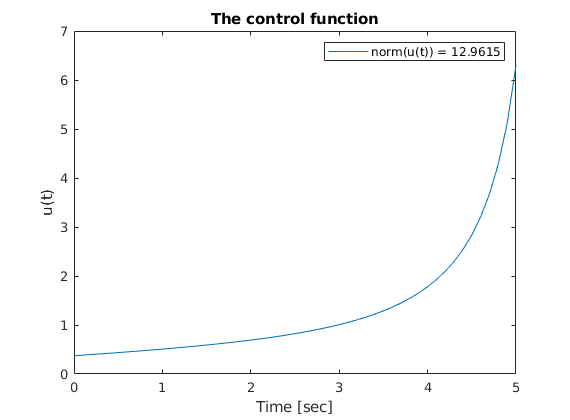
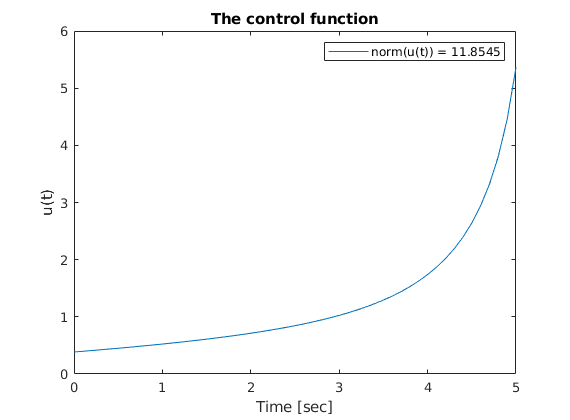
Dognman

diff --git a/src/MDL01_Control/classes/@OptimalControl/OptimalControl.m b/src/MDL01_Control/classes/@OptimalControl/OptimalControl.m
@@ -1,14 +1,22 @@
 classdef OptimalControl < handle & matlab.mixin.SetGet & matlab.mixin.Copyable
-% description: This class is able to solve optimization problems of a function restricted to an ordinary equation.
+% description: "This class is able to solve optimization problems of a function restricted to an ordinary equation.
 %               This scheme is used to solve optimal control problems in which the functional derivative is calculated. 
 %               <strong>OptimalControl</strong> class has methods that help us find optimal control as well as obtaining 
 %               the attached problem and it's derivative form, 
-%               in both Symbolic and numerical versions.
-% long: This class is able to solve optimization problems of a function restricted to an ordinary equation.
+%               in both Symbolic and numerical versions."
+% long: "This class is able to solve optimization problems of a function restricted to an ordinary equation.
 %               This scheme is used to solve optimal control problems in which the functional derivative is calculated. 
 %               <strong>OptimalControl</strong> class has methods that help us find optimal control as well as obtaining 
 %               the attached problem and it's derivative form, 
-%               in both Symbolic and numerical versions.
+%               in both Symbolic and numerical versions. Este problema se
+%               aborda con el metodo del gradiente. Dado que la informacion
+%               del problema esta en simbolico, podemos calcular el
+%               gradiente y el problema adjunto mediante el principio de
+%               pontryagin. Se ha implementado el metodo del gradiente,
+%               de forma que el calculo de descenso sea un parametro. Por
+%               defecto, este descenso se calcula con el metodo del
+%               gradiente conjugado.
+%               http://web.mit.edu/mitter/www/publications/2_conjugate_grad_IEEEAC.pdf"
     properties 
         % type: "Functional"
         % default: "none"

diff --git a/examples/Tp02_OptimalControlinPDE/T0004_FractionalLaplacian/copiaRM.m b/examples/Tp02_OptimalControlinPDE/T0004_FractionalLaplacian/copiaRM.m
@@ -1,43 +1,43 @@
 %% Parametros de discretizacion
-N = 20;
+N = 100;
 xi = -1; xf = 1;
 xline = linspace(xi,xf,N);
 
 %% Creamos el ODE 
+
 s = 0.8;
-A = FDLaplacian(N);
+A = -10*FEFractionalLaplacian(s,1,N);
 %%%%%%%%%%%%%%%%  
 a = -0.3; b = 0.5;
 B = construction_matrix_B(xline,a,b);
 %%%%%%%%%%%%%%%%
-FinalTime = 0.5;
-dt = 0.001;
-Y0 =cos(pi*xline)'.^2;
+FinalTime = 2;
+Y0 =sin(pi*xline)';
 
-dynamics = ode('A',A,'B',B,'Condition',Y0,'FinalTime',FinalTime,'dt',dt);
-dynamics.PDE = true;
-dynamics.RKMethod = @ode23;
+dynamics = ode('A',A,'B',B,'Condition',Y0,'FinalTime',FinalTime,'dt',0.05);
+
 %% Creamos Problema de Control
 Y = dynamics.VectorState.Symbolic;
 U = dynamics.Control.Symbolic;
 
 YT = 0.0*xline';
 
-symPsi  = (YT - Y).'*(YT - Y);
-symL    = 0.0001*(U.'*U);
+dx = xline(2) -xline(1);
+
+symPsi  = dx*N*(YT - Y).'*(YT - Y);
+symL    = 0.001*(U.'*U);
 iCP1 = OptimalControl(dynamics,symPsi,symL);
 
 %% Solve Gradient
-tol = 1e-3;
+tol = 0.01;
+
 %
-GradientMethod(iCP1,'tol',tol)
+GradientMethod(iCP1,'graphs',true,'TypeGraphs','PDE','MaxIter',20,'DescentAlgorithm',@ConjugateGradientDescent)
 %%
-dynamics.label = 'Free';
-iCP1.ode.label = 'with Control';
 solve(dynamics)
 
-plotT([iCP1.ode dynamics])
-
+iCP1.ode.label = 'Control';
+dynamics.label = 'Dynamics';
 % animation([iCP1.ode,dynamics],'YLim',[-1 1],'xx',0.05)
 % Several ways to run
 % GradientMethod(iCP1)
@@ -45,7 +45,6 @@ plotT([iCP1.ode dynamics])
 % GradientMethod(iCP1,'DescentParameters',DescentParameters,'graphs',true)
 
 % iCP1.ode
-%%
 function [B] = construction_matrix_B(mesh,a,b)
 
 N = length(mesh);

diff --git a/helps/MDL01_Control/classes/OptimalControl/help_OptimalControl.m b/helps/MDL01_Control/classes/OptimalControl/help_OptimalControl.m
@@ -11,13 +11,7 @@
 clear;
 syms t
 symY = sym('y',[2 1]);
-symU = sym('u',[2 1]);
-%%
-% *Cost Functional*
-%%
-% $$ J = \Psi(Y(T),t) + \int_0^T L(Y(t,U),U(t),t) dt$$
-
-%%
+symU = sym('u',[1 1]);
 %%
 % *Ordinary differential equation*
 %%
@@ -36,26 +30,29 @@ sigma1 = 0.1;sigma2 = 0.1;
 S = symY(1);I = symY(2);
 Fsym(1)  = Lambda - beta*S*I -  sigma1*S; 
 Fsym(2)  = beta*S*I - symU(1)*I - sigma2*I ;
-%
-Fsym = Fsym.'
 %%
 FinalTime = 5;
 S0 = 100 ;I0 = 15;
 Y0 = [ S0 ; I0];
-Dynamics = ode(Fsym,symY,symU,'Condition',Y0,'FinalTime',FinalTime);
+Dynamics = ode(Fsym.',symY,symU,'Condition',Y0,'FinalTime',FinalTime);
 %%
+% *Cost Functional*
+%%
+% $$ J = \Psi(Y(T),t) + \int_0^T L(Y(t,U),U(t),t) dt$$
+%%
+% In this case,
+%%
+% $$ J = A \int_0^T (\vert U \vert^2 + I) dt$$
+%% 
 % Now, We can create the control problem
 A = 1;
 symPsi  = sym(0);
-symL    = A*(symU.'*symU) + symY(2);
+symL    = A*(symU.'*symU) + I;
 %
 iCP1 = OptimalControl(Dynamics,symPsi,symL);
 %%
 % and solve by Classical Gradient Method
-DescentParameters = {'InitialLengthStep',1e-10,'MinLengthStep',1e-15};
-Gradient_Parameters = {'Graphs',false,'maxiter',20,'DescentParameters',DescentParameters,'tol',0.1};
-%
-GradientMethod(iCP1,Gradient_Parameters{:})
+GradientMethod(iCP1)
 %%
 plot(iCP1)
 

diff --git a/src/MDL01_Control/classes/@OptimalControl/GradientMethod.m b/src/MDL01_Control/classes/@OptimalControl/GradientMethod.m
@@ -1,7 +1,11 @@
 function GradientMethod(iCP,varargin)
     % name: GradientMethod
-    % description: The gradient method is able to optimize the given functional, going down the gradient.
     % little_description: The gradient method is able to optimize the given functional, going down the gradient.
+    % description: "The gradient method is able to optimize the given
+    %                       functional, going down the gradient. El calculo del gradiente puede
+    %                       ser de varios tipo. Por defecto la direccion y el modulo de descenso
+    %                       se calcula con el gradiente conjugado
+    %                       http://web.mit.edu/mitter/www/publications/2_conjugate_grad_IEEEAC.pdf"
     % autor: JOroya
     % MandatoryInputs:   
     %   iCP: 
@@ -70,8 +74,8 @@ function GradientMethod(iCP,varargin)
     addOptional(pinp,'U0',Udefault)
     %% Method Parameter
     addOptional(pinp,'MaxIter',200)
-    addOptional(pinp,'tol',1e-5)
-    addOptional(pinp,'DescentAlgorithm',@ClassicalDescent)
+    addOptional(pinp,'tol',1e-3)
+    addOptional(pinp,'DescentAlgorithm',@ConjugateGradientDescent)
     addOptional(pinp,'DescentParameters',{})
     %% Graphs Parameters
     addOptional(pinp,'Graphs',false)

diff --git a/examples/Tp03_ControlParameterDepent/T0001_average/T0006_average.m b/examples/Tp03_ControlParameterDepent/T0001_average/T0006_average.m
@@ -1,6 +1,4 @@
-
-
-
+%%
 %%%%%%%%%%%%%%%%%%%%%%%%%%%%%%%%%%%%%%%%%%%%%%%%%%%%%%%%%%%%%%%%%%%%%%%%%%%
 % System matrices A, B
 % zdiff = A*z + B*u
@@ -47,42 +45,31 @@ iode.dt = 0.01;
 solve(iode)
 plot(iode)
 
-
 %% 
-
 ys = iode.VectorState.Symbolic;
 u  = iode.Control.Symbolic;
+%%
 ysm = arrayfun(@(index) mean(ys(index:M:N*M)),1:M).';
 yt = 0*ones(N, 1); 
 Psi = (ysm - yt).'*(ysm - yt);
 beta = 1e-3;
-
 L   = 0.5*beta*u.'*u;
 
 iCP1 = OptimalControl(iode,Psi,L);
-Nmax = 100;
-tol = 1e-8;
-
-GradientMethod(iCP1,'Graphs',true,'DescentAlgorithm',@AdaptativeDescent,'MaxIter',100,'tol',tol)
-
-
-
+%% 
+% Solve 
+GradientMethod(iCP1)
+%%
+% Solution 
 plot(iCP1.ode)
-% Parameter beta for the cost function
-beta = 1e-3;
-% Maximum number of iterations
 
-% Target at t = T
-
+%%
+% See average free
 cellstate = arrayfun(@(index) mean(iode.VectorState.Numeric(:,index:M:N*M),2),1:M,'UniformOutput',0);
-meanvector = [cellstate{:}]
+meanvector = [cellstate{:}];
 plot(meanvector);
-
+%%
+% Average Control
 cellstate = arrayfun(@(index) mean(iCP1.ode.VectorState.Numeric(:,index:M:N*M),2),1:M,'UniformOutput',0);
-meanvector = [cellstate{:}]
+meanvector = [cellstate{:}];
 plot(meanvector);
-
-
-
-
-% Tolerance

diff --git a/examples/Tp02_OptimalControlinPDE/T0004_FractionalLaplacian/T0003_FractionalLaplacian.m b/examples/Tp02_OptimalControlinPDE/T0004_FractionalLaplacian/T0003_FractionalLaplacian.m
@@ -14,7 +14,7 @@ B = construction_matrix_B(xline,a,b);
 FinalTime = 2;
 Y0 =sin(pi*xline)';
 
-dynamics = ode('A',A,'B',B,'Condition',Y0,'FinalTime',FinalTime,'dt',0.05);
+dynamics = ode('A',A,'B',B,'Condition',Y0,'FinalTime',FinalTime,'dt',0.1);
 
 %% Creamos Problema de Control
 Y = dynamics.VectorState.Symbolic;
@@ -29,17 +29,16 @@ symL    = 0.001*(U.'*U);
 iCP1 = OptimalControl(dynamics,symPsi,symL);
 
 %% Solve Gradient
-tol = 0.000001;
-DescentParameters = {'InitialLengthStep',5.0};
+tol = 0.01;
 
 %
-GradientMethod(iCP1,'graphs',true,'TypeGraphs','PDE','MaxIter',2000,'DescentAlgorithm',@ConjugateGradientDescent)
-
+GradientMethod(iCP1,'graphs',true,'TypeGraphs','PDE','MaxIter',20,'DescentAlgorithm',@ConjugateGradientDescent)
+%%
 solve(dynamics)
 
 iCP1.ode.label = 'Control';
 dynamics.label = 'Dynamics';
-animation([iCP1.ode,dynamics],'YLim',[-1 1],'xx',0.05)
+% animation([iCP1.ode,dynamics],'YLim',[-1 1],'xx',0.05)
 % Several ways to run
 % GradientMethod(iCP1)
 % GradientMethod(iCP1,'DescentParameters',DescentParameters)

diff --git a/src/MDL00_MathematicalTools/classes/@ode/plotT.m b/src/MDL00_MathematicalTools/classes/@ode/plotT.m
@@ -13,14 +13,24 @@ function plotT(iode)
 %    description: matrix 
 %    class: double
 %    dimension: [length(iCP.tline)]
-%    default:   empty
+%    defa,ult:   empty
 
-ax = axes
-Y = iode.Y;
-[nrow ncol] = size(Y);
+ax = axes;
 
-line(1:ncol, Y(end,:),'Parent',ax,'Marker','*','LineStyle','-');
+struct = [iode.VectorState];
+Y = {struct.Numeric};
+[nrow ncol] = size(Y{1});
 
-        
+
+colors = {'r','g','b'};
+LinS = {'-','--'};
+pt = {'*','s'};
+index = 0;
+for iY = Y
+    index = index + 1;
+    ic = mod(index,3) + 1;
+    il = mod(index,2) + 1;
+    ip = mod(index,2) + 1;
+    line(1:ncol, iY{:}(end,:),'Parent',ax,'Marker',pt{ip},'LineStyle',LinS{il},'Color',colors{ic});
 end
-
+legend({iode.label})

diff --git a/helps/MDL00_MathematicalTools/ode/help_ode.m b/helps/MDL00_MathematicalTools/ode/help_ode.m
@@ -23,20 +23,6 @@ dynamics
 %% 
 % You can solve the equations with a single sentence 
 solve(dynamics)
-plot(dynamics)
+resume(dynamics)
 %%
-% Create final condition problems, choosing the solver
-dynamics.Type = 'FinalCondition';
-solve(dynamics,'RKMethod',@ode23)
 plot(dynamics)
-%% 
-% other than a simpler interface for linear problems
-A = [ -1 0 ; 0 -1];
-B = [1 ; 1];
-%%
-dynamics = ode('A',A,'B',B);
-dynamics.Condition = [1,-1];
-solve(dynamics)
-plot(dynamics)
-%% 
-% You can see mode in own tutorials

diff --git a/src/MDL01_Control/classes/@OptimalControl/ConjugateGradientDescent.m b/src/MDL01_Control/classes/@OptimalControl/ConjugateGradientDescent.m
@@ -69,6 +69,7 @@ function  [Unew ,Ynew,Jnew,dJnew,error,stop] = ConjugateGradientDescent(iCP,tol,
     persistent s
     
     if isempty(Iter)
+        %% First 
         Unew = iCP.solution.Uhistory{1};
         %
         solve(iCP.ode,'Control',Unew);
@@ -82,6 +83,7 @@ function  [Unew ,Ynew,Jnew,dJnew,error,stop] = ConjugateGradientDescent(iCP,tol,
         s = -dJnew;
         stop = false;
     else
+        %%
         Iter = Iter + 1;
         
         Uold  = iCP.solution.Uhistory{Iter-1};

diff --git a/src/MDL00_MathematicalTools/classes/@ode/plot.m b/src/MDL00_MathematicalTools/classes/@ode/plot.m
@@ -36,11 +36,16 @@ function plot(iode,varargin)
         Parent = axes('Parent',f);        
     end
         
+    
+    if iode.PDE
+        surf(iode.VectorState.Numeric)
+    else
     plot(iode.tspan,iode.VectorState.Numeric,'Parent',Parent)
     
     legend(string(iode.VectorState.Symbolic))
     Parent.YLabel.String = 'states';
     Parent.XLabel.String = 'time(s)';
     Parent.Title.String = 'solution';
+    end
 end
 

diff --git a/examples/Tp01_OptimalControlinODE/T0005_Spin/T0005_spin.m b/examples/Tp01_OptimalControlinODE/T0005_Spin/T0005_spin.m
@@ -30,5 +30,6 @@ iCP1 = OptimalControl(dynamics,symPsi,symL);
 %% Solve Gradient
 %GradientMethod(iCP1,'Graphs',true,'DescentAlgorithm',@ClassicalDescent,'DescentParameters',{'LengthStep',1e-1})
 
-GradientMethod(iCP1,'Graphs',true,'DescentAlgorithm',@ConjugateGradientDescent,'MaxIter',40000,'tol',1e-8)
+GradientMethod(iCP1,'DescentAlgorithm',@ConjugateGradientDescent,'MaxIter',40000,'tol',1e-8)
 %%
+plot(iCP1)

diff --git a/tutorials/Tp01_ODE/T0002_RKMethods/T0002_RKMethods.m b/tutorials/Tp01_ODE/T0002_RKMethods/T0002_RKMethods.m
@@ -44,7 +44,14 @@ dynamics.Condition = [1,-1];
 solve(dynamics)
 plot(dynamics)
 %%
-dynamics.Type = 'FinalCondition';
-solve(dynamics,'RKMethod',@ode23,'RKParameter')
+dynamics.Type = 'InitialCondition';
+solve(dynamics,'RKMethod',@ode23,'RKMethod')
 plot(dynamics)
 %% 
+% Lineal
+A = [ -1 0 ; 0 -1];
+B = [1 ; 1];
+
+lode = ode('A',A,'B',B)
+solve(lode)
+plot(lode)
